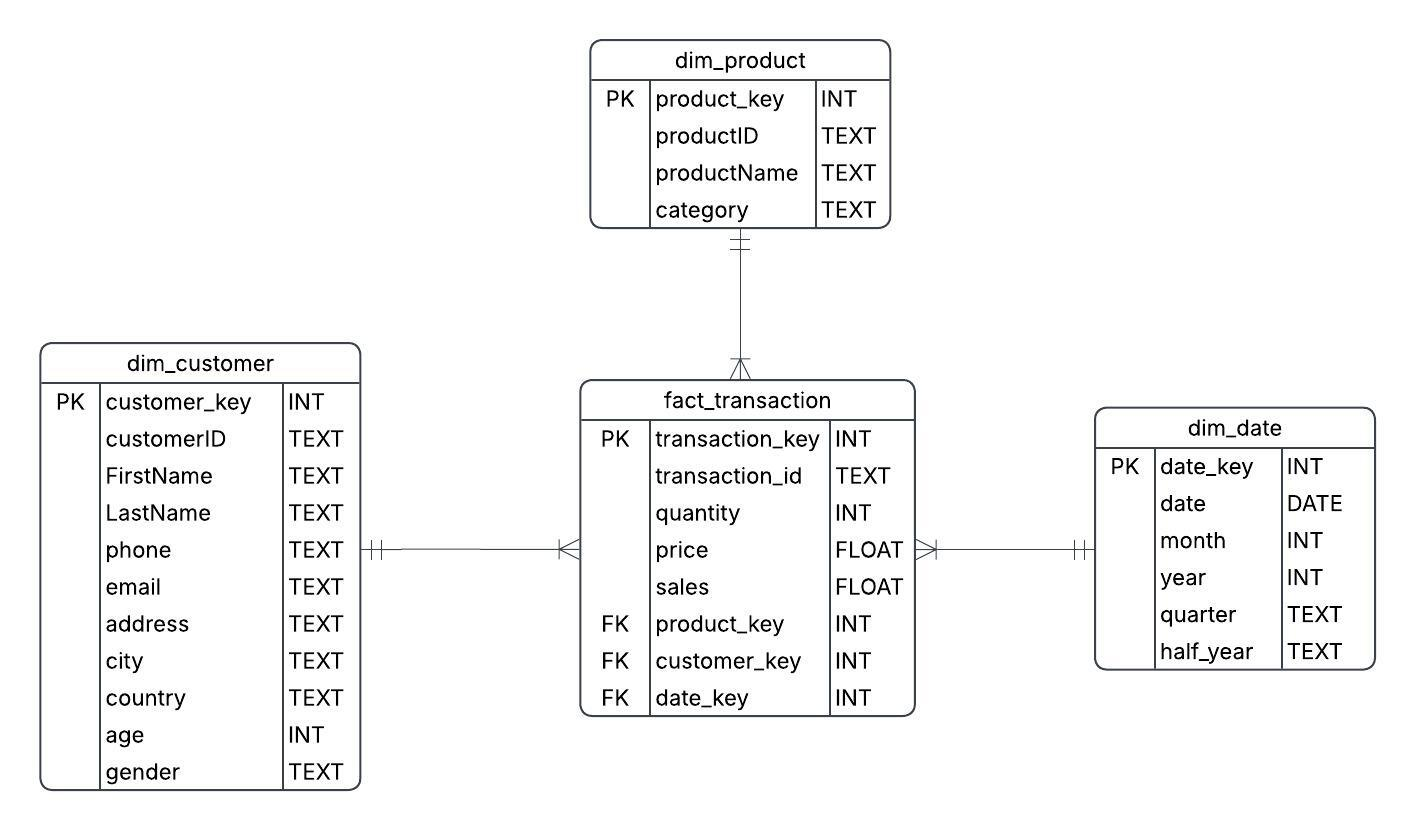
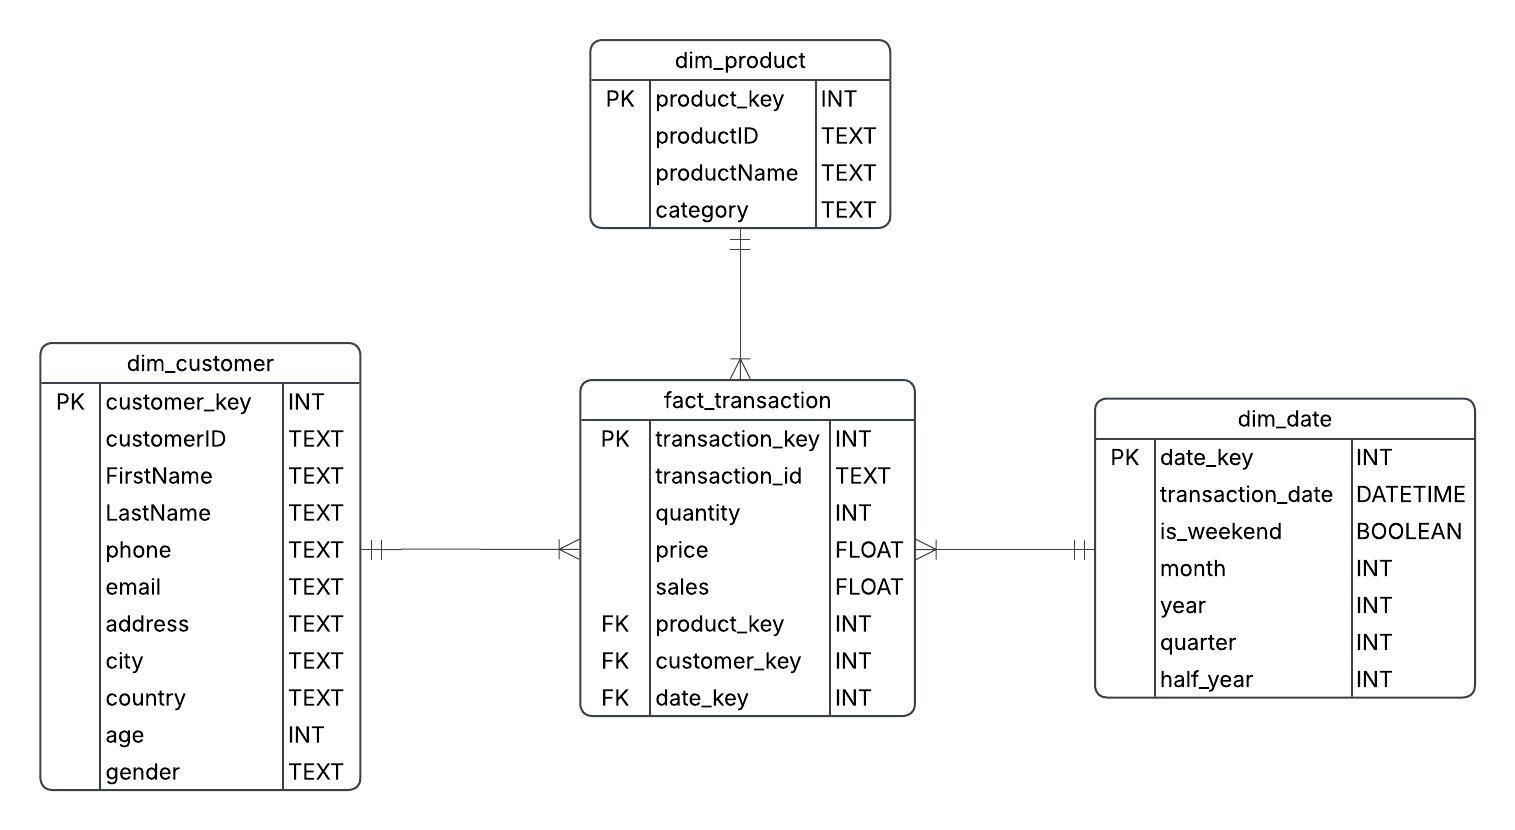
First commit.

diff --git a/01 Migration 1/04 data pipeline (modified).py b/01 Migration 1/04 data pipeline (modified).py
@@ -1,0 +1,191 @@
+import pandas as pd
+from pandas_gbq import read_gbq
+from pandas_gbq import to_gbq
+from google.cloud import bigquery
+
+client = bigquery.Client()
+
+def load_raw_staging():
+    try:
+        dc = pd.read_csv('01 Retail/customers_df.csv', index_col=0)
+        to_gbq(dc, 'bq_retail.raw_stg_dim_customer', project_id='my-dw-demos-01', if_exists='fail')
+        print('Customer data loaded successfully.')
+
+        try:
+            dp = pd.read_csv('01 Retail/products_df.csv', index_col=0)
+            to_gbq(dp, 'bq_retail.raw_stg_dim_product', project_id='my-dw-demos-01', if_exists='fail')
+            print ('Products data loaded successfully.')
+
+            try:
+                dt = pd.read_csv('01 Retail/transactions_df.csv', index_col=0)
+                to_gbq(dt, 'bq_retail.raw_stg_fact_transaction', project_id='my-dw-demos-01', if_exists='fail')
+                print('Transactions data loaded successfully.')
+
+            except Exception as error:
+                print(f'Error with loading transactions data {error}')
+
+        except Exception as error:
+            print(f'Error with loading products data {error}')
+
+    except Exception as error:
+        print(f'Error with loading customer data {error}')
+
+
+try:
+    dim_product = '''
+    CREATE TABLE IF NOT EXISTS bq_retail.dim_product (
+    product_key STRING DEFAULT GENERATE_UUID(),
+    product_id STRING,
+    product_name STRING,
+    category STRING,
+    price FLOAT64
+    )'''
+    query_job = client.query(dim_product)
+    query_job.result()
+
+    dim_customer = '''
+    CREATE TABLE IF NOT EXISTS bq_retail.dim_customer (
+    customer_key STRING DEFAULT GENERATE_UUID(),
+    customer_id STRING,
+    first_name STRING,
+    last_name STRING,
+    email STRING,
+    phone_number STRING,
+    address STRING,
+    city STRING,
+    country STRING,
+    age INT64,
+    gender STRING
+    )'''
+    query_job = client.query(dim_customer)
+    query_job.result()
+
+    dim_date = '''
+    CREATE TABLE IF NOT EXISTS bq_retail.dim_date (
+    date_key STRING DEFAULT GENERATE_UUID(),
+    transaction_date DATETIME,
+    is_weekend BOOLEAN,
+    month INT64,
+    year INT64,
+    quarter INT64,
+    half_year INT64
+    )'''
+    query_job = client.query(dim_date)
+    query_job.result()
+
+    fact_transaction = '''
+    CREATE TABLE IF NOT EXISTS bq_retail.fact_transaction (
+    transaction_key STRING DEFAULT GENERATE_UUID(),
+    transaction_id STRING,
+    quantity INT64, 
+    transaction_price FLOAT64,
+    sales FLOAT64,
+    product_key STRING,
+    customer_key STRING,
+    date_key STRING
+    )'''
+    query_job = client.query(fact_transaction)
+    query_job.result()
+
+except Exception as error:
+    print(error)
+
+
+def load_dim_product():
+    try:
+        dp = read_gbq('bq_retail.raw_stg_dim_product', 'my-dw-demos-01')
+        product = dp[['ProductID', 'ProductName', 'Category', 'Price']].copy()
+        product = product.rename(columns={'ProductID': 'product_id', 'ProductName': 'product_name',
+                                          'Category': 'category', 'Price': 'price'})
+        product = product.drop_duplicates(subset=['product_id', 'product_name'], keep='first')
+
+        to_gbq(product, 'bq_retail.dim_product', project_id='my-dw-demos-01', if_exists='fail')
+
+        print('Product data loaded successfully.')
+
+    except Exception as error:
+        print(f'Loading failed for dim_product table: {error}')
+
+
+def load_dim_customer():
+    try:
+        dc = read_gbq('bq_retail.raw_stg_dim_customer', 'my-dw-demos-01')
+        customer = dc[['CustomerID', 'FirstName', 'LastName', 'Email', 'Phone', 'Address', 'Age', 'Gender']].copy()
+        customer = customer.rename(
+            columns={'CustomerID': 'customer_id', 'FirstName': 'first_name', 'LastName': 'last_name',
+                     'Email': 'email', 'Phone': 'phone_number', 'Address': 'address', 'City': 'city',
+                     'Country': 'country', 'Age': 'age', 'Gender': 'gender'})
+        customer = customer.drop_duplicates(subset=['customer_id', 'first_name', 'last_name'], keep='first')
+
+        to_gbq(customer, 'bq_retail.dim_customer', project_id='my-dw-demos-01', if_exists='fail')
+
+        print('Customer data loaded successfully.')
+
+    except Exception as error:
+        print(f'Loading failed for dim_customer table: {error}')
+
+
+def load_dim_date():
+    try:
+        dt = read_gbq('bq_retail.raw_stg_fact_transaction', 'my-dw-demos-01')
+        date = dt[['Timestamp']].copy()
+        date['Timestamp'] = pd.to_datetime(date['Timestamp'])
+        date['is_weekend'] = date['Timestamp'].dt.weekday >= 5
+        date['month'] = date['Timestamp'].dt.month
+        date['year'] = date['Timestamp'].dt.year
+        date['quarter'] = date['Timestamp'].dt.quarter
+        date['half_year'] = ((date['month'])-1) // 6 + 1
+        date = date.rename(columns={'Timestamp': 'transaction_date'})
+        date = date.drop_duplicates(subset=['transaction_date'], keep='first')
+
+        to_gbq(date, 'bq_retail.dim_date', project_id='my-dw-demos-01', if_exists='fail')
+
+        print('Date data loaded successfully.')
+
+    except Exception as error:
+        print(f'Loading failed for dim_date table: {error}')
+
+
+def load_fact_transaction():
+    try:
+        df = read_gbq('bq_retail.raw_stg_fact_transaction', 'my-dw-demos-01')
+        fact = df[['TransactionID', 'CustomerID', 'ProductID', 'Timestamp', 'Quantity']].copy()
+
+        fact['Timestamp'] = pd.to_datetime(fact['Timestamp'])
+        fact = fact.rename(columns={'CustomerID': 'customer_id', 'ProductID': 'product_id',
+                                    'Timestamp': 'transaction_date',})
+
+        dc = read_gbq('bq_retail.dim_customer', 'my-dw-demos-01')
+        dp = read_gbq('bq_retail.dim_product', 'my-dw-demos-01')
+        dt = read_gbq('bq_retail.dim_date', 'my-dw-demos-01')
+
+        merged_fact = (fact
+                       .merge(dc, on='customer_id', how='left')
+                       .merge(dp, on='product_id', how='left')
+                       .merge(dt, on='transaction_date', how='left')
+                       )
+
+        final_fact = merged_fact[['TransactionID', 'customer_key', 'product_key', 'date_key', 'Quantity', 'price']].copy()
+        final_fact['sales'] = final_fact['Quantity'] * final_fact['price']
+
+        final_fact = final_fact.rename(columns={'TransactionID': 'transaction_id','Quantity': 'quantity',
+                                                'price': 'transaction_price'})
+        final_fact = final_fact.drop_duplicates(subset=['transaction_id'], keep='first')
+
+        to_gbq(final_fact, 'bq_retail.fact_transaction', project_id='my-dw-demos-01', if_exists='fail')
+
+        print('Fact data loaded successfully.')
+
+    except Exception as error:
+        print(f'Error with loading fact_transaction table: {error}')
+
+
+load_raw_staging()
+
+load_dim_product()
+
+load_dim_customer()
+
+load_dim_date()
+
+load_fact_transaction()
